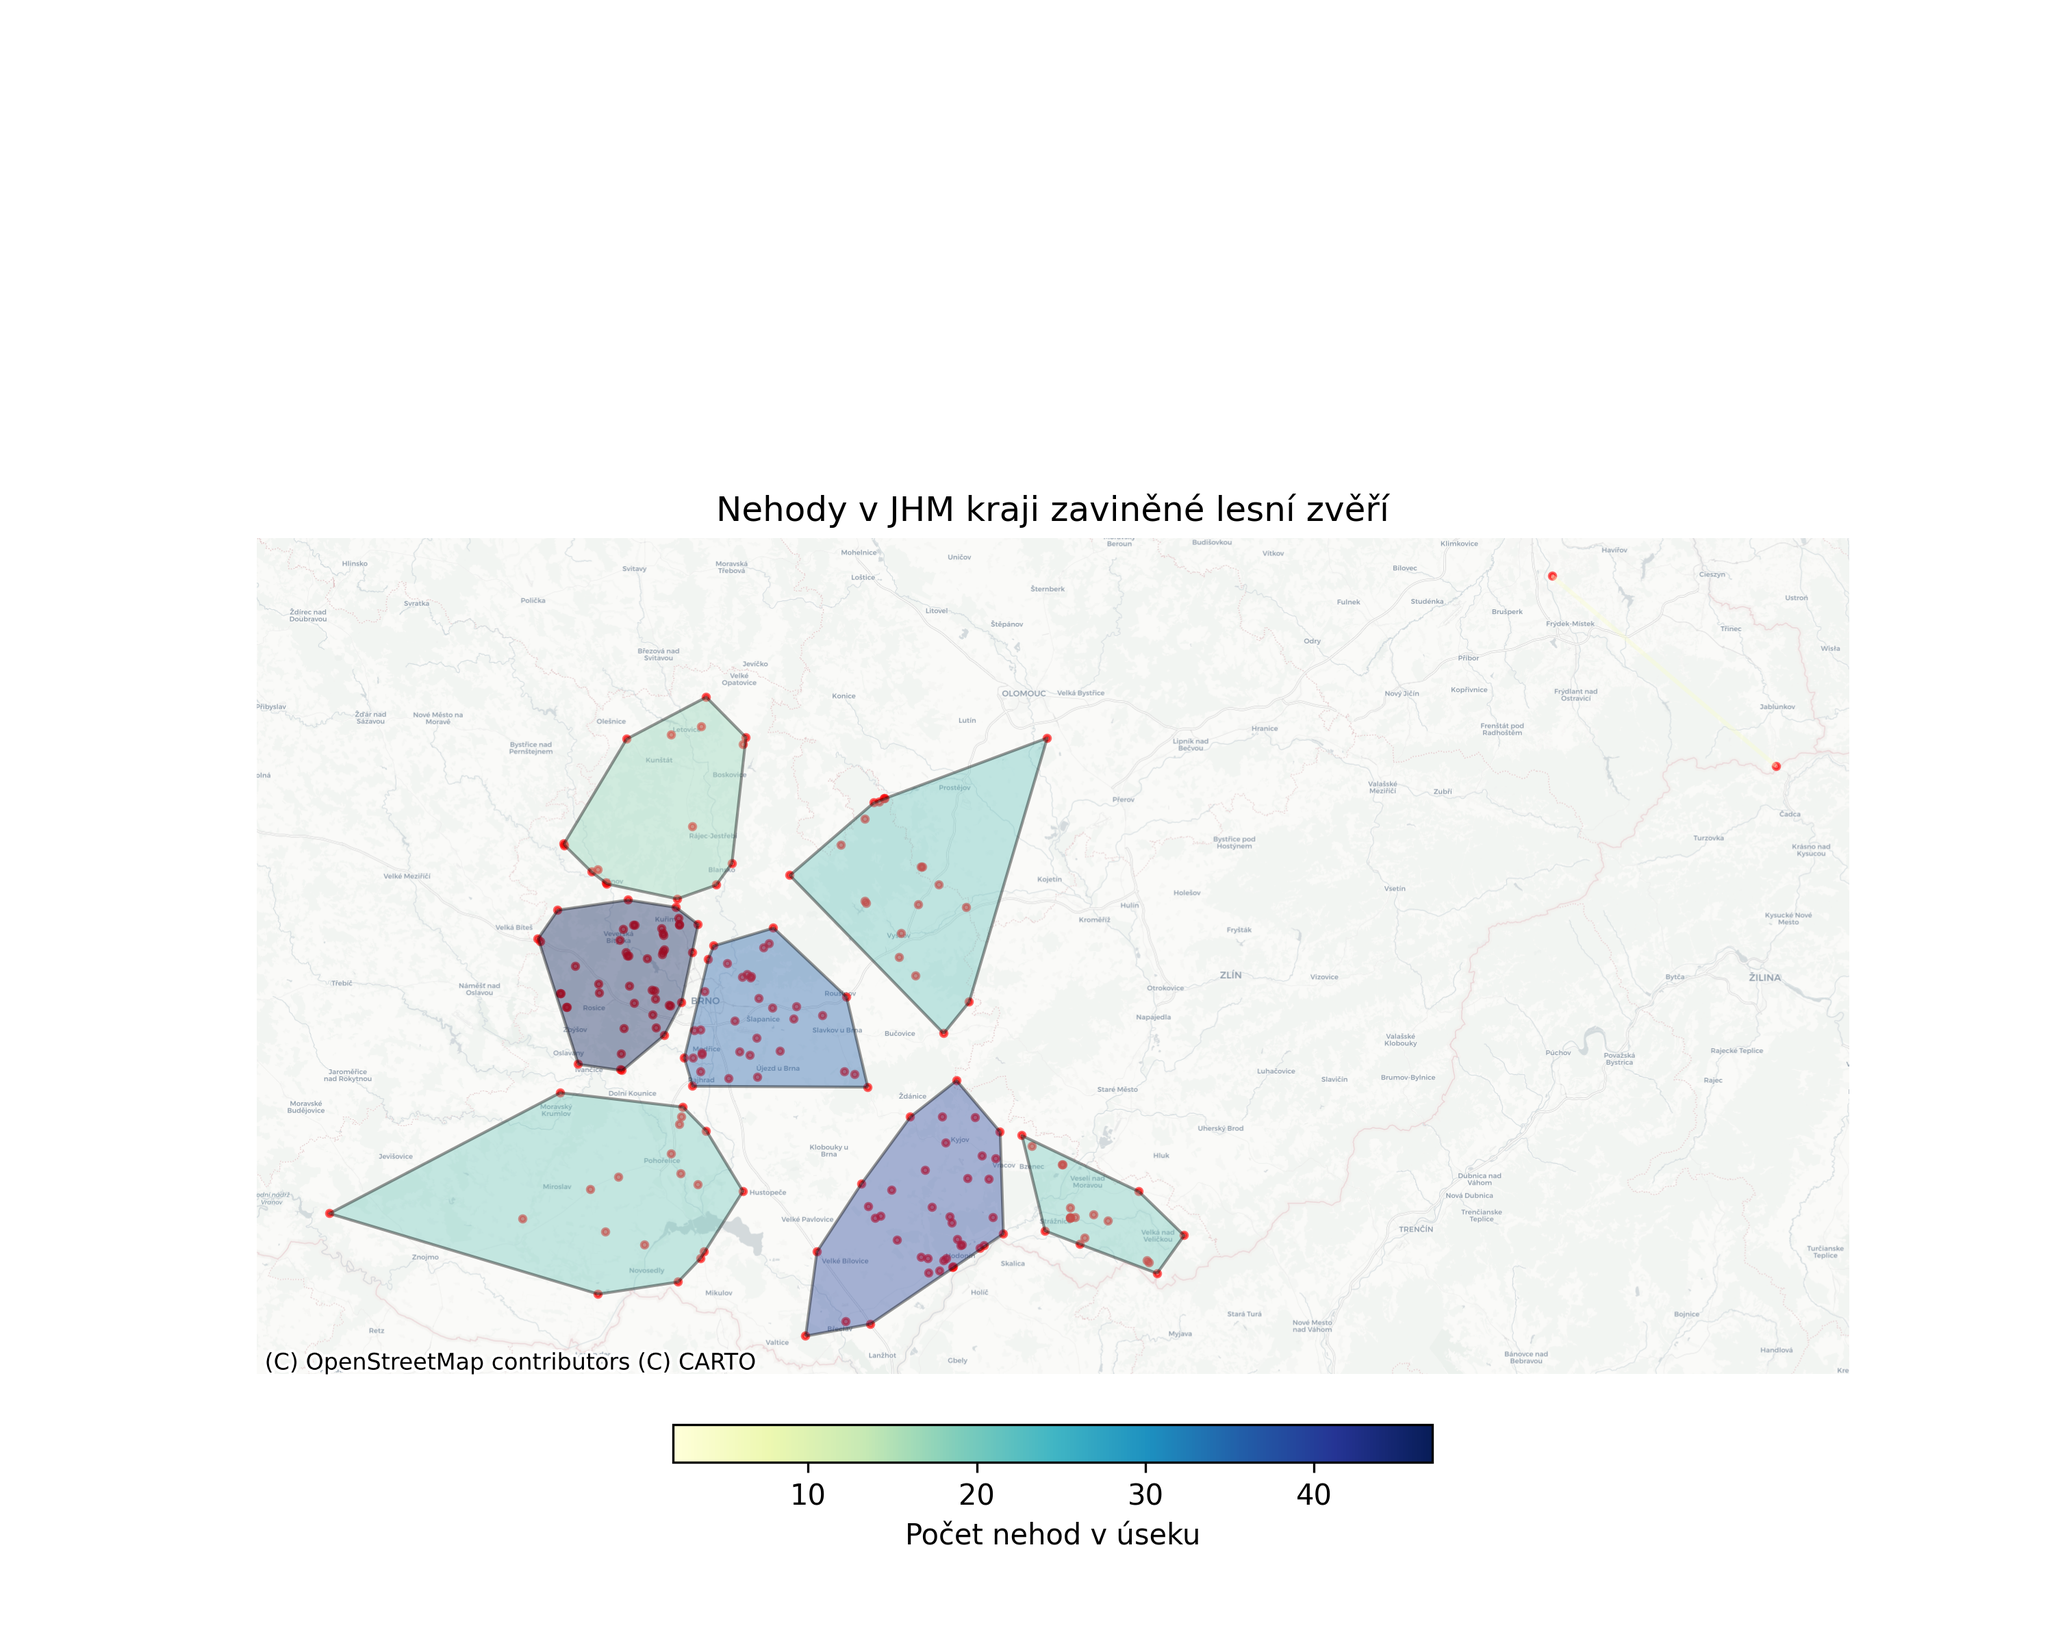
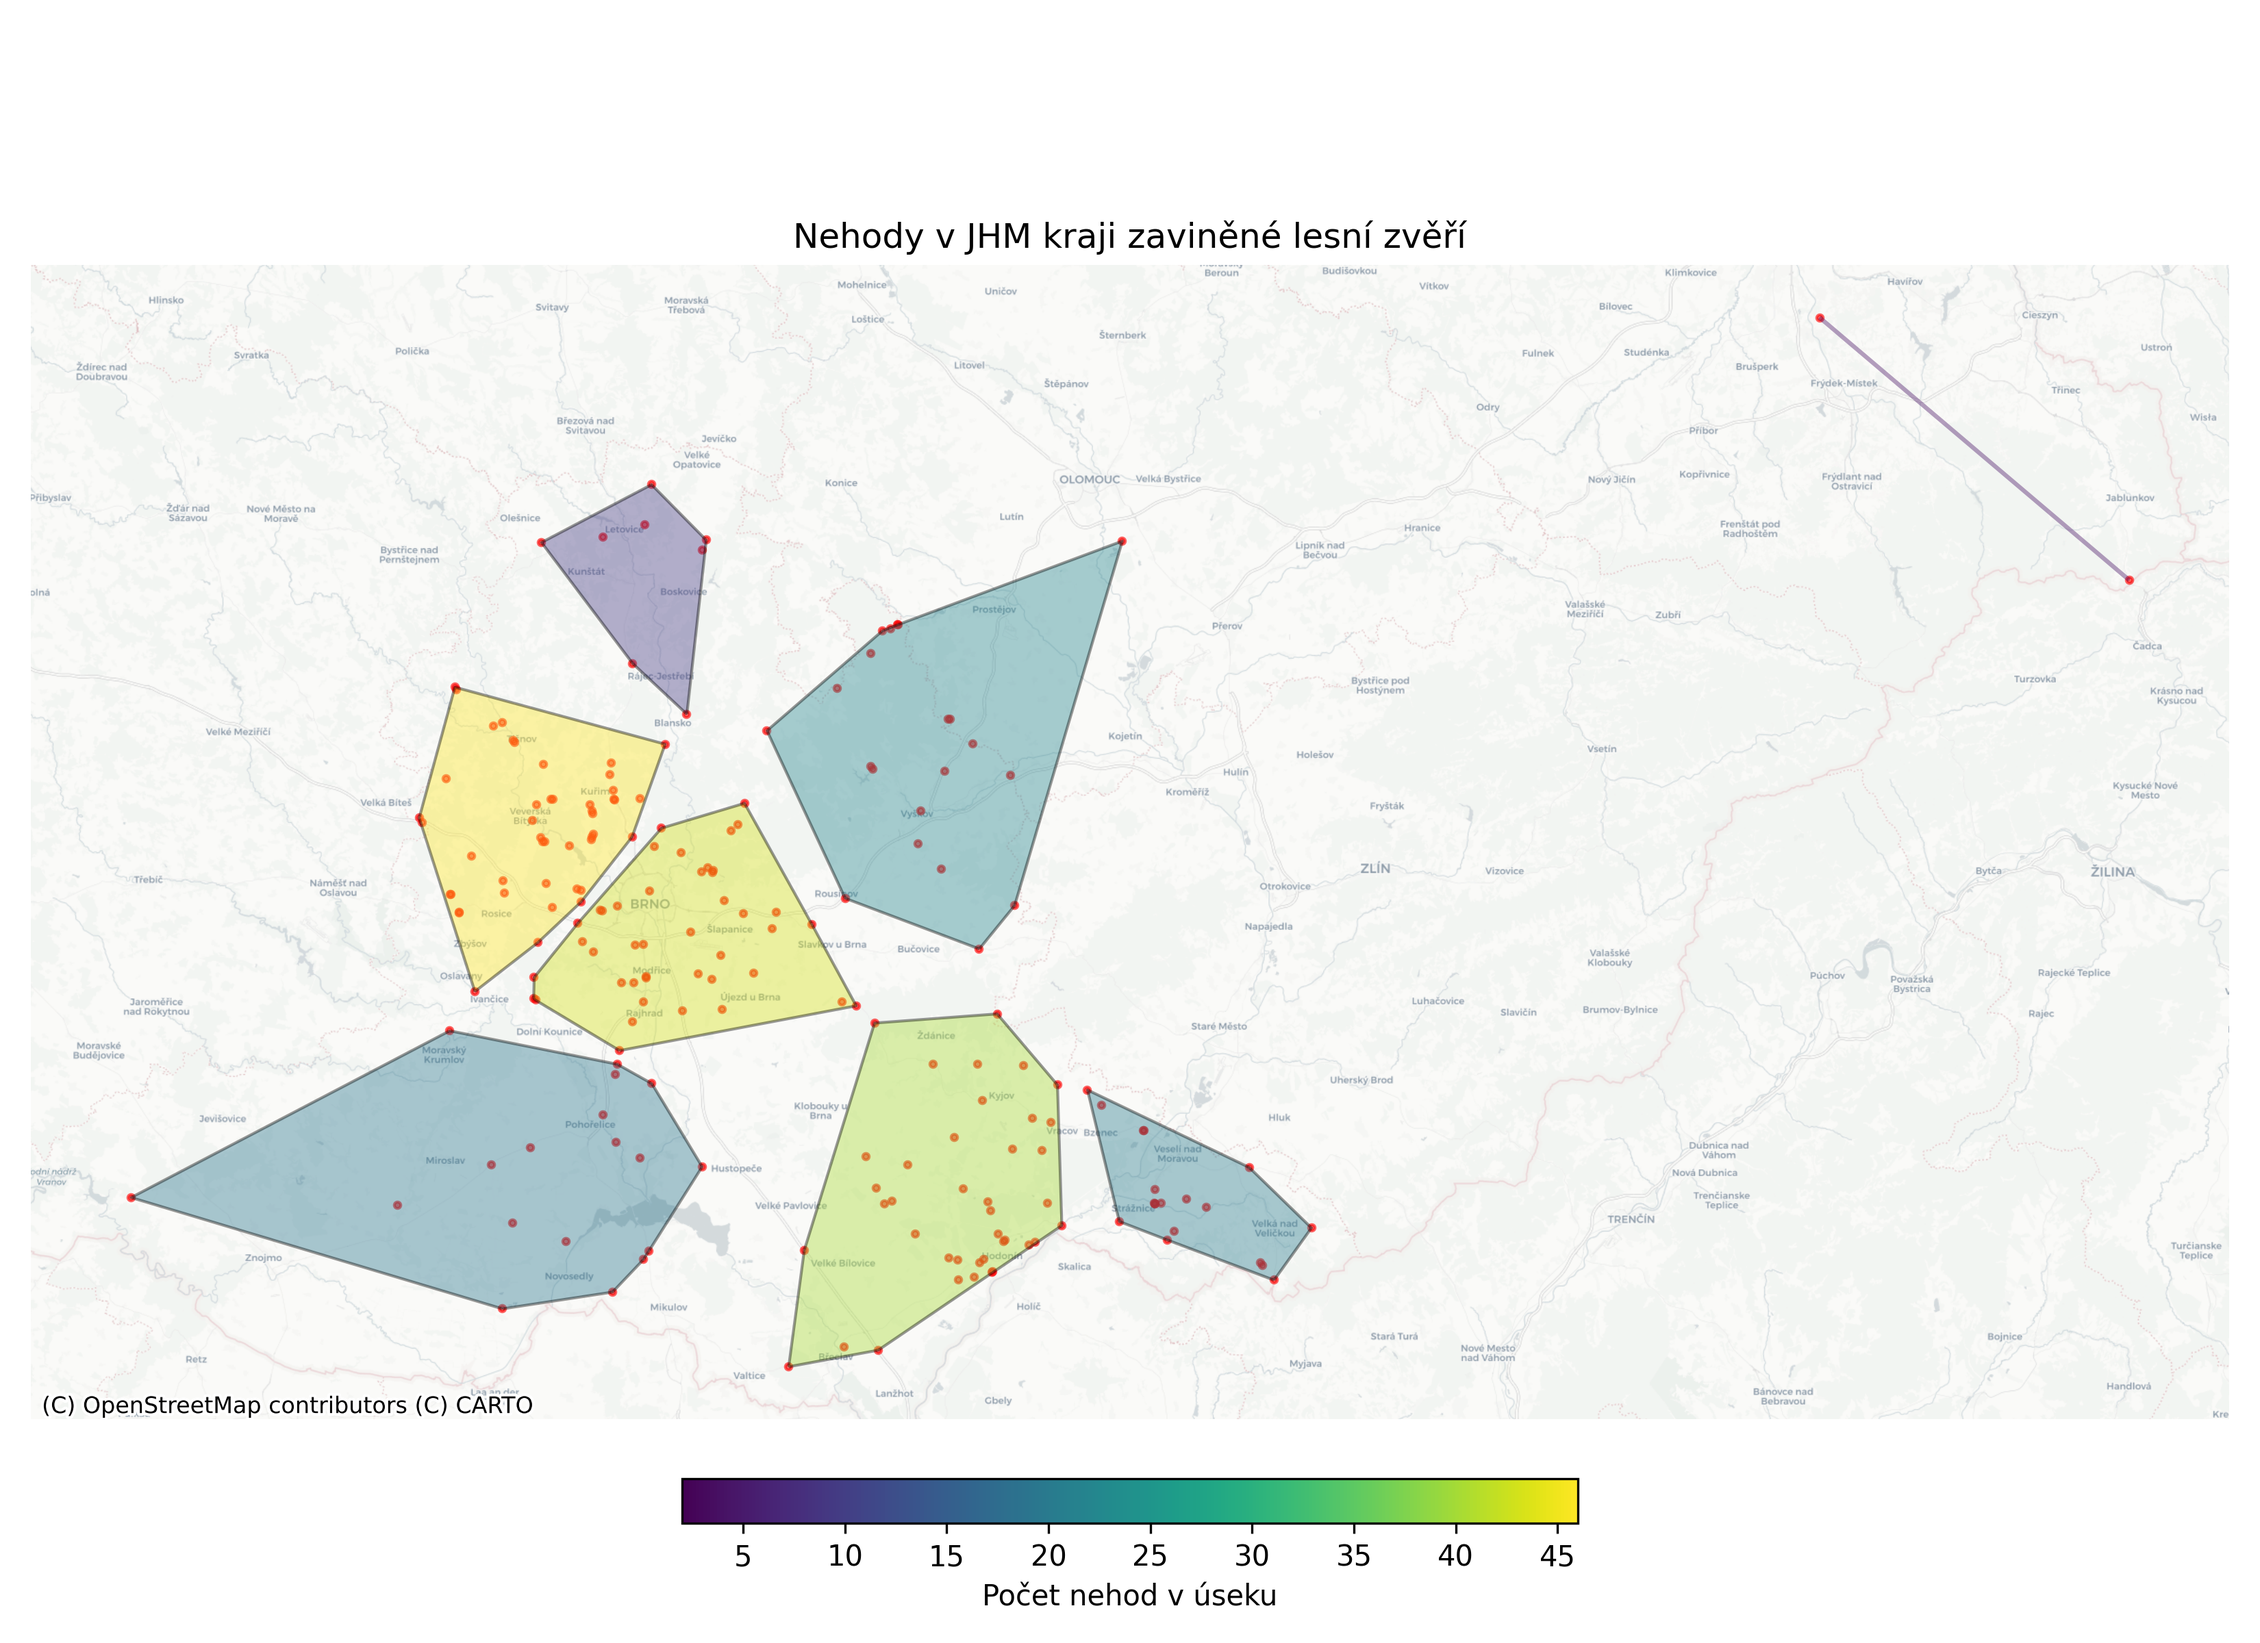
IZV part 3 final

diff --git a/5.semestr/IZV/izv-part03/geo.py b/5.semestr/IZV/izv-part03/geo.py
@@ -1,17 +1,24 @@
 #!/usr/bin/python3.10
 # coding=utf-8
 import pandas as pd
-import geopandas as gpd
+import geopandas
 import matplotlib.pyplot as plt
-import contextily as ctx
+import contextily
 from shapely.geometry import Point
 from sklearn.cluster import KMeans
 import numpy as np
 
-# Funkce pro vytvoření GeoDataFrame
-def make_geo(df_accidents: pd.DataFrame, df_locations: pd.DataFrame, region: str) -> gpd.GeoDataFrame:
+def make_geo(df_accidents: pd.DataFrame, df_locations: pd.DataFrame, region: str) -> geopandas.GeoDataFrame:
     """
-    Vytvoří GeoDataFrame ze vstupních DataFrame, nastaví CRS a odstraní neplatné pozice.
+    Vytvoří GeoDataFrame z poskytnutých dat o nehodách a lokalitách.
+
+    Argumenty:
+        df_accidents (pd.DataFrame): DataFrame obsahující data o nehodách.
+        df_locations (pd.DataFrame): DataFrame obsahující data o lokalitách.
+        region (str): Region, podle kterého se filtrují nehody.
+
+    Návratová hodnota:
+        gpd.GeoDataFrame: GeoDataFrame s lokalitami nehod a příslušnými daty.
     """
     df = df_accidents.merge(df_locations, on="p1")
     df = df[df['region'] == region]
@@ -21,22 +28,27 @@ def make_geo(df_accidents: pd.DataFrame, df_locations: pd.DataFrame, region: str
     swapped = df['d'] < df['e']
     df.loc[swapped, ['d', 'e']] = df.loc[swapped, ['e', 'd']].values
 
-    gdf = gpd.GeoDataFrame(
+    gdf = geopandas.GeoDataFrame(
         df,
         geometry=[Point(xy) for xy in zip(df['d'], df['e'])],
-        crs="EPSG:5514"  # S-JTSK
+        crs="EPSG:5514"  # Souřadnicový systém S-JTSK
     )
     return gdf
 
-# Funkce pro vizualizaci geografických dat
-def plot_geo(gdf: gpd.GeoDataFrame, fig_location: str = None, show_figure: bool = False):
-    print("Starting to plot geographic data...")
+def plot_geo(gdf: geopandas.GeoDataFrame, fig_location: str = None, show_figure: bool = False):
+    """
+    Vykreslí geografická data ukazující nehody v lednu a červenci.
+
+    Argumenty:
+        gdf (gpd.GeoDataFrame): GeoDataFrame obsahující data o nehodách.
+        fig_location (str, optional): Cesta k souboru pro uložení obrázku.
+        show_figure (bool, optional): Zda zobrazit obrázek.
+    """
     gdf_alcohol = gdf[gdf['p11'] >= 4]
-    months = [1, 7]  # Leden a červenec
+    months = [1, 7]
     titles = ["Nehody v lednu", "Nehody v červenci"]
 
-    # Create a grid layout with equal width for both subplots and make the plot bigger
-    fig, axes = plt.subplots(1, 2, figsize=(36, 28), constrained_layout=False)  # Increased figsize
+    fig, axes = plt.subplots(1, 2, figsize=(11, 8), constrained_layout=True)
 
     for i, month in enumerate(months):
         ax = axes[i]
@@ -49,114 +61,94 @@ def plot_geo(gdf: gpd.GeoDataFrame, fig_location: str = None, show_figure: bool 
 
         gdf_month.plot(ax=ax, markersize=5, color="red", alpha=0.6)
         try:
-            ctx.add_basemap(ax, crs=gdf_month.crs.to_string(), source=ctx.providers.CartoDB.Positron, zoom=10)
-        except Exception as e:
-            print(f"Error loading basemap: {e}")
+            contextily.add_basemap(ax, crs=gdf_month.crs.to_string(), source=contextily.providers.CartoDB.Positron, zoom=10)
+        except Exception:
+            pass
 
         ax.set_title(titles[i])
         ax.set_axis_off()
-
-    # Manually adjust the spacing between subplots
-    plt.subplots_adjust(wspace=0.1)  # Adjust width space between subplots
 
     if fig_location:
         plt.savefig(fig_location, dpi=300)
     if show_figure:
         plt.show()
     plt.close()
-    print("Finished plotting geographic data.")
 
-def plot_cluster(gdf: gpd.GeoDataFrame, fig_location: str = None, show_figure: bool = False):
-    print("Starting to plot clusters...")
+def plot_cluster(gdf: geopandas.GeoDataFrame, fig_location: str = None, show_figure: bool = False):
+    """
+    Vykreslí shlukovaná data o nehodách pomocí KMeans shlukování.
+
+    Argumenty:
+        gdf (gpd.GeoDataFrame): GeoDataFrame obsahující data o nehodách.
+        fig_location (str, optional): Cesta k souboru pro uložení obrázku.
+        show_figure (bool, optional): Zda zobrazit obrázek.
+    """
     gdf_animals = gdf[gdf['p10'] == 4].copy()
-    print(f"Number of animal-caused accidents: {len(gdf_animals)}")
 
     coords = np.array([(geom.x, geom.y) for geom in gdf_animals.geometry if geom])
     if len(coords) == 0:
-        print("No valid data for clustering.")
         return
 
-    # Set the number of clusters to 7
     n_clusters = 8
     if len(coords) < n_clusters:
-        print(f"Not enough data for {n_clusters} clusters. Using {len(coords)} clusters instead.")
         n_clusters = len(coords)
 
-    print(f"Applying K-means with {n_clusters} clusters...")
-    kmeans = KMeans(n_clusters=n_clusters)
+    kmeans = KMeans(n_clusters=n_clusters, random_state=69)
     labels = kmeans.fit_predict(coords)
     gdf_animals['cluster'] = labels
 
-    # Reproject to EPSG:3857 for basemap compatibility
     gdf_animals = gdf_animals.to_crs(epsg=3857)
 
-    # Calculate accident counts per cluster
     cluster_accident_counts = gdf_animals.groupby('cluster').size()
     gdf_animals['accident_count'] = gdf_animals['cluster'].map(cluster_accident_counts)
 
-    fig, ax = plt.subplots(figsize=(10, 8))
+    fig, ax = plt.subplots(figsize=(11, 8))
 
-    # Plot individual accidents as small red dots
-    gdf_animals.plot(ax=ax, color='red', markersize=5, alpha=0.6, label="Accidents")
+    gdf_animals.plot(ax=ax, color='red', markersize=5, alpha=0.6, label="Nehody")
 
-    # Plot clusters with colors based on accident counts
     for cluster_id in range(n_clusters):
         cluster_points = gdf_animals[gdf_animals['cluster'] == cluster_id]
         if cluster_points.empty:
-            print(f"Cluster {cluster_id} is empty.")
             continue
 
-        hull = cluster_points.geometry.unary_union.convex_hull
+        hull = cluster_points.geometry.union_all().convex_hull
         if hull.is_empty:
-            print(f"Cluster {cluster_id} has no valid hull.")
             continue
 
-        # Use accident count to determine color
         accident_count = cluster_accident_counts[cluster_id]
-        color = plt.cm.YlGnBu(accident_count / cluster_accident_counts.max())  # Normalize accident count
-        gpd.GeoSeries(hull).plot(ax=ax, alpha=0.4, color=color, edgecolor='black')
+        color = plt.cm.viridis(accident_count / cluster_accident_counts.max())
+        geopandas.GeoSeries(hull).plot(ax=ax, alpha=0.4, color=color, edgecolor='black')
 
-    # Add basemap
     try:
-        ctx.add_basemap(ax, crs=gdf_animals.crs.to_string(), source=ctx.providers.CartoDB.Positron, zoom=10)
-    except Exception as e:
-        print(f"Error loading basemap: {e}")
+        contextily.add_basemap(ax, crs=gdf_animals.crs.to_string(), source=contextily.providers.CartoDB.Positron, zoom=10)
+    except Exception:
+        pass
 
-    # Add legend for accident count
-    sm = plt.cm.ScalarMappable(cmap='YlGnBu', norm=plt.Normalize(vmin=cluster_accident_counts.min(), vmax=cluster_accident_counts.max()))
-    sm._A = []  # Required for ScalarMappable
+    sm = plt.cm.ScalarMappable(cmap='viridis', norm=plt.Normalize(vmin=cluster_accident_counts.min(), vmax=cluster_accident_counts.max()))
+    sm._A = []
     cbar = fig.colorbar(sm, ax=ax, orientation='horizontal', fraction=0.03, pad=0.04)
     cbar.set_label("Počet nehod v úseku")
 
     ax.set_title("Nehody v JHM kraji zaviněné lesní zvěří")
     ax.set_axis_off()
 
+    plt.tight_layout()
+
     if fig_location:
         plt.savefig(fig_location, dpi=300)
     if show_figure:
         plt.show()
     plt.close()
-    print("Finished plotting clusters.")
 
-# Hlavní část programu
 if __name__ == "__main__":
-    print("Starting script...")
-    print("Loading data...")
+    """
+    Hlavní vstupní bod pro skript. Načte data, vytvoří GeoDataFrame a vygeneruje grafy.
+    """
     df_accidents = pd.read_pickle("accidents.pkl.gz")
     df_locations = pd.read_pickle("locations.pkl.gz")
-    print("Data loaded.")
 
-    selected_region = 'JHM'  # Vybraný kraj (například Středočeský kraj)
-    print("Creating GeoDataFrame...")
+    selected_region = 'JHM'
     gdf = make_geo(df_accidents, df_locations, selected_region)
-    print("GeoDataFrame created.")
 
-    print("Plotting geographic data...")
     plot_geo(gdf, "geo1.png", True)
-    print("Geographic data plotted.")
-
-    print("Plotting clusters...")
     plot_cluster(gdf, "geo2.png", True)
-    print("Clusters plotted.")
-
-    print("Script completed.")
